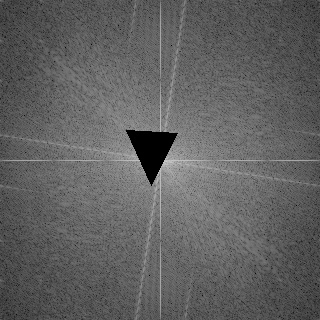
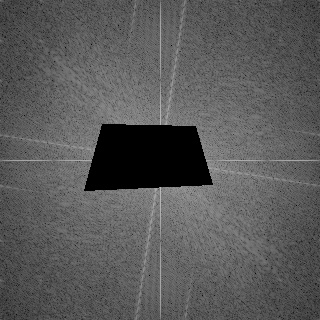
待续

Changed region(s): [[0.25, 0.375, 0.6875, 0.5938]]

diff --git a/CLASS1/enc_temp_folder/945655f2607d87f7afa5757bfcd98f/funtions.cpp b/CLASS1/enc_temp_folder/945655f2607d87f7afa5757bfcd98f/funtions.cpp
@@ -473,11 +473,10 @@ int ifftDemo()
 	/*--------------------------------------------------*/
 
 	mag = mag / 255;
+	cv::Mat mask;
 	Mat proceMag;
 
-	Mat mask1(mag.cols,mag.rows,CV_8UC3,)
-
-	//selectPolygon(mag, mask);
+	selectPolygon(mag, mask);
 	imshow("mask", mask);
 
 	mag = mag.mul(mask);
